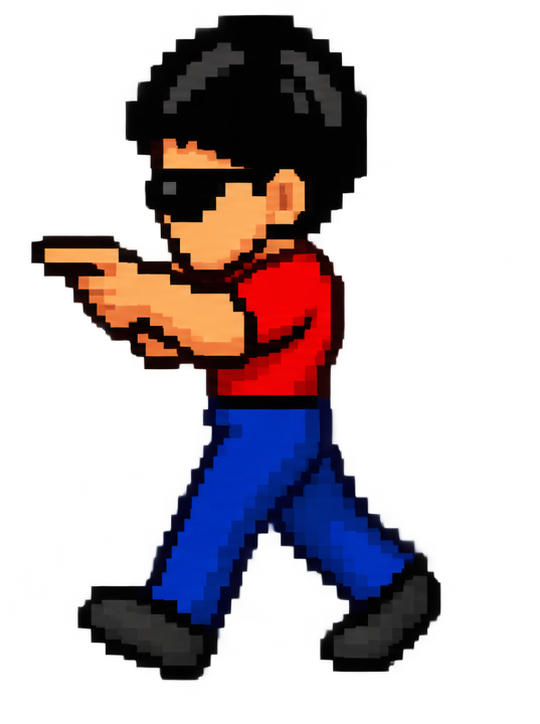
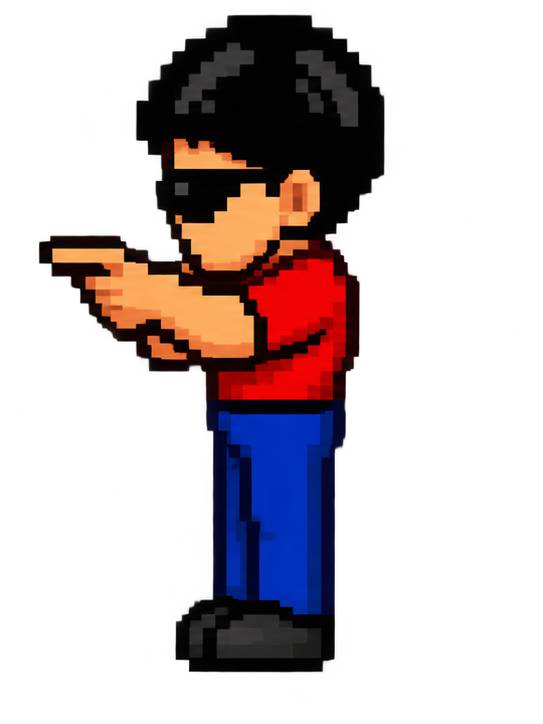
Fix left walk animation: use frames 0 and 2 from spritesheet
- Recropped walk_left_0.png (frame 1/primera) and walk_left_1.png (frame 3/tercera) from izquierda.png
- Left animation now alternates: frame1 → frame3 → frame1 → frame3
- Removed idle frames from left walk cycle, now purely walking
- maxFrames for left back to 2 (just the two walking frames)

Generated with Codebuff

Changed region(s): [[0.0593, 0.0, 0.8296, 0.942]]

diff --git a/index.html b/index.html
@@ -1718,7 +1718,7 @@ function update(dt, t){
     else if(dx < 0) player.facingDir = 'left';
     else player.facingDir = 'right';
     // Animación: frame counts por dirección
-    const maxFrames = {up:3, down:3, left:4, right:2};
+    const maxFrames = {up:3, down:3, left:2, right:2};
     player.walkTimer += dt;
     if(player.walkTimer > 250){
       player.walkTimer = 0;
@@ -2160,14 +2160,8 @@ function draw(){
     left: sprites.idleLeft, right: sprites.idleRight
   };
   if(player.moving){
-    if(player.facingDir === 'left'){
-      // Izquierda: alternar caminar → idle → caminar → idle
-      const leftWalkCycle = [sprites.walkLeft0, sprites.idleLeft, sprites.walkLeft1, sprites.idleLeft];
-      playerSprite = leftWalkCycle[player.walkFrame % leftWalkCycle.length];
-    } else {
-      const frames = walkFrames[player.facingDir];
-      playerSprite = frames[player.walkFrame % frames.length];
-    }
+    const frames = walkFrames[player.facingDir];
+    playerSprite = frames[player.walkFrame % frames.length];
   } else {
     playerSprite = idleFrames[player.facingDir];
   }
